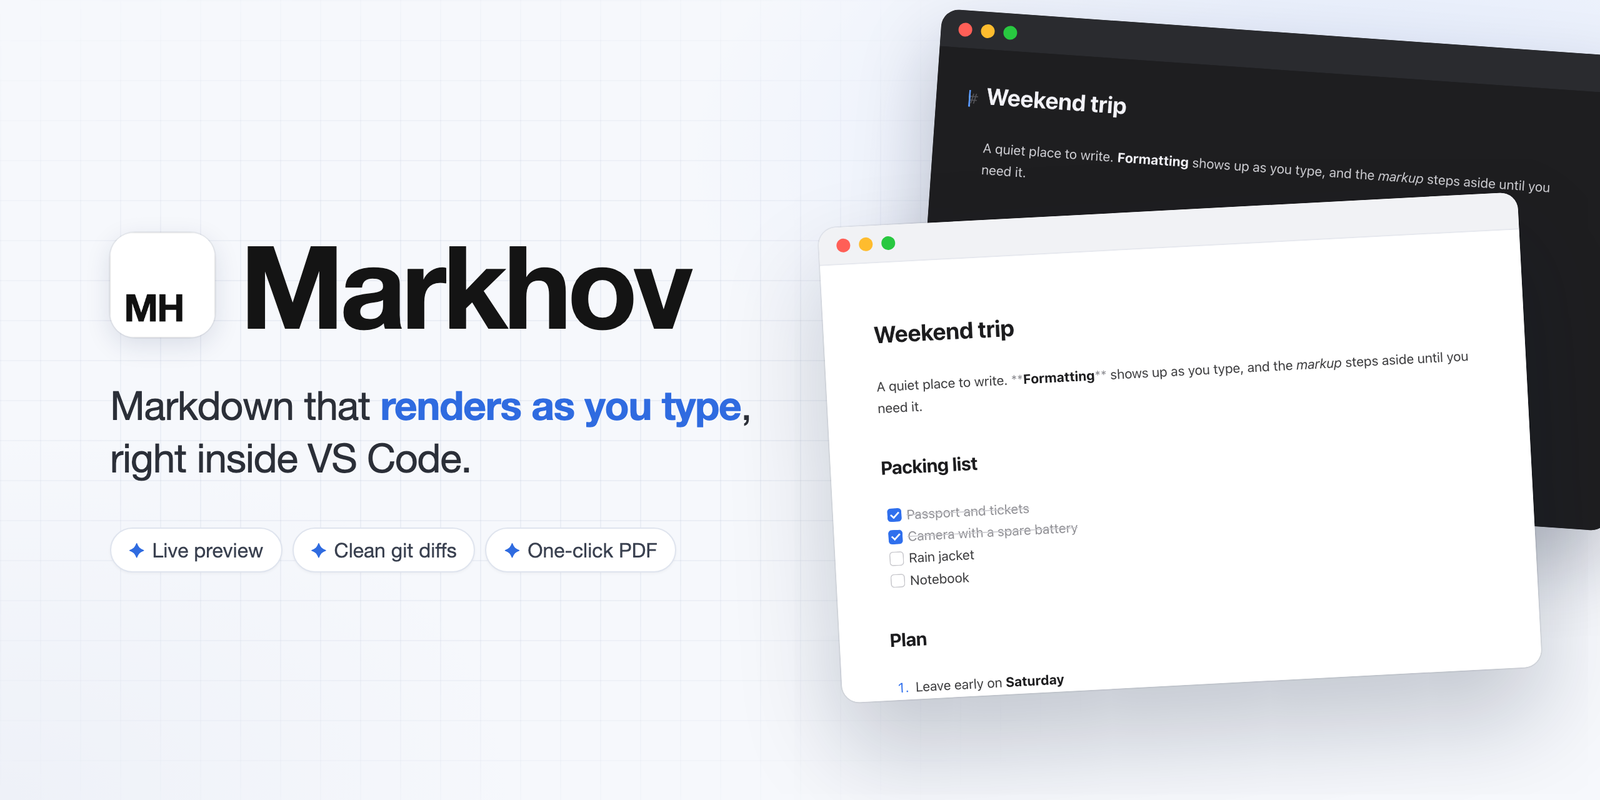
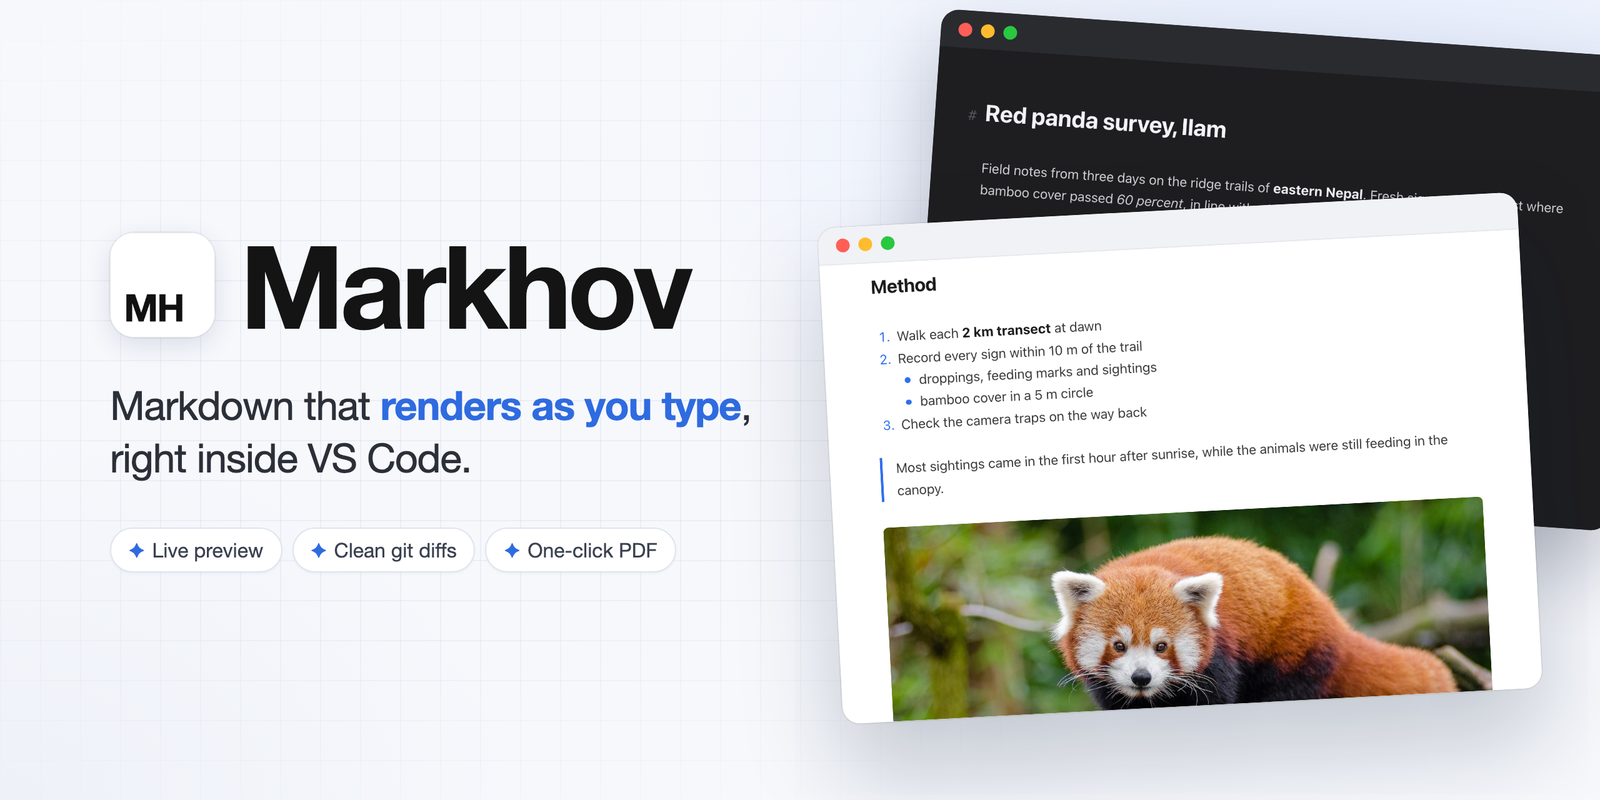
docs: show a red panda field survey in the screenshots and demo
Replace the weekend trip sample with field notes from a red panda survey, using a CC0 photo from Wikimedia Commons (Red Panda (25193861686).jpg). Retake the light and dark screenshots, the typing demo and the banner with it.

diff --git a/harness/showcase.md b/harness/showcase.md
@@ -1,32 +1,34 @@
-# Weekend trip
+# Red panda survey, Ilam
 
-A quiet place to write. **Formatting** shows up as you type, and the *markup* steps aside until you need it.
+Field notes from three days on the ridge trails of **eastern Nepal**. Fresh signs were densest where bamboo cover passed *60 percent*, in line with what is known about the species' [habitat](https://en.wikipedia.org/wiki/Red_panda).
 
-## Packing list
+## Before the next visit
 
-- [x] Passport and tickets
-- [x] Camera with a spare battery
-- [ ] Rain jacket
-- [ ] Notebook
+- [x] Recharge the camera traps
+- [x] Log GPS points for every dropping
+- [ ] Send the samples to the lab
+- [ ] Share transect maps with the rangers
 
-## Plan
+## Method
 
-1. Leave early on **Saturday**
-2. Coffee by the harbor
-   - try the [bakery](https://example.com) on the corner
-   - walk the old town
-3. Back home on Sunday evening
+1. Walk each **2 km transect** at dawn
+2. Record every sign within 10 m of the trail
+   - droppings, feeding marks and sightings
+   - bamboo cover in a 5 m circle
+3. Check the camera traps on the way back
 
-> Not all those who wander are lost.
+> Most sightings came in the first hour after sunrise, while the animals were still feeding in the canopy.
 
-![Sunset over the hills](photo.svg)
+![Red panda on a mossy branch](red-panda.jpg)
 
-| Day | Where | Budget |
-|:--|:--|--:|
-| Saturday | Harbor | 120 |
-| Sunday | Old town | 80 |
+| Transect | Elevation | Signs | Bamboo cover |
+|:--|--:|--:|--:|
+| Ridge A | 2,450 m | 14 | 72% |
+| Ridge B | 2,610 m | 9 | 58% |
+| Valley C | 2,180 m | 3 | 31% |
 
-```ts
-const days = ['Saturday', 'Sunday'];
-console.log(`Trip: ${days.join(' to ')}`);
+```python
+signs = {"Ridge A": 14, "Ridge B": 9, "Valley C": 3}
+for site, count in signs.items():
+    print(f"{site}: {count / 2:.1f} signs per km")
 ```
